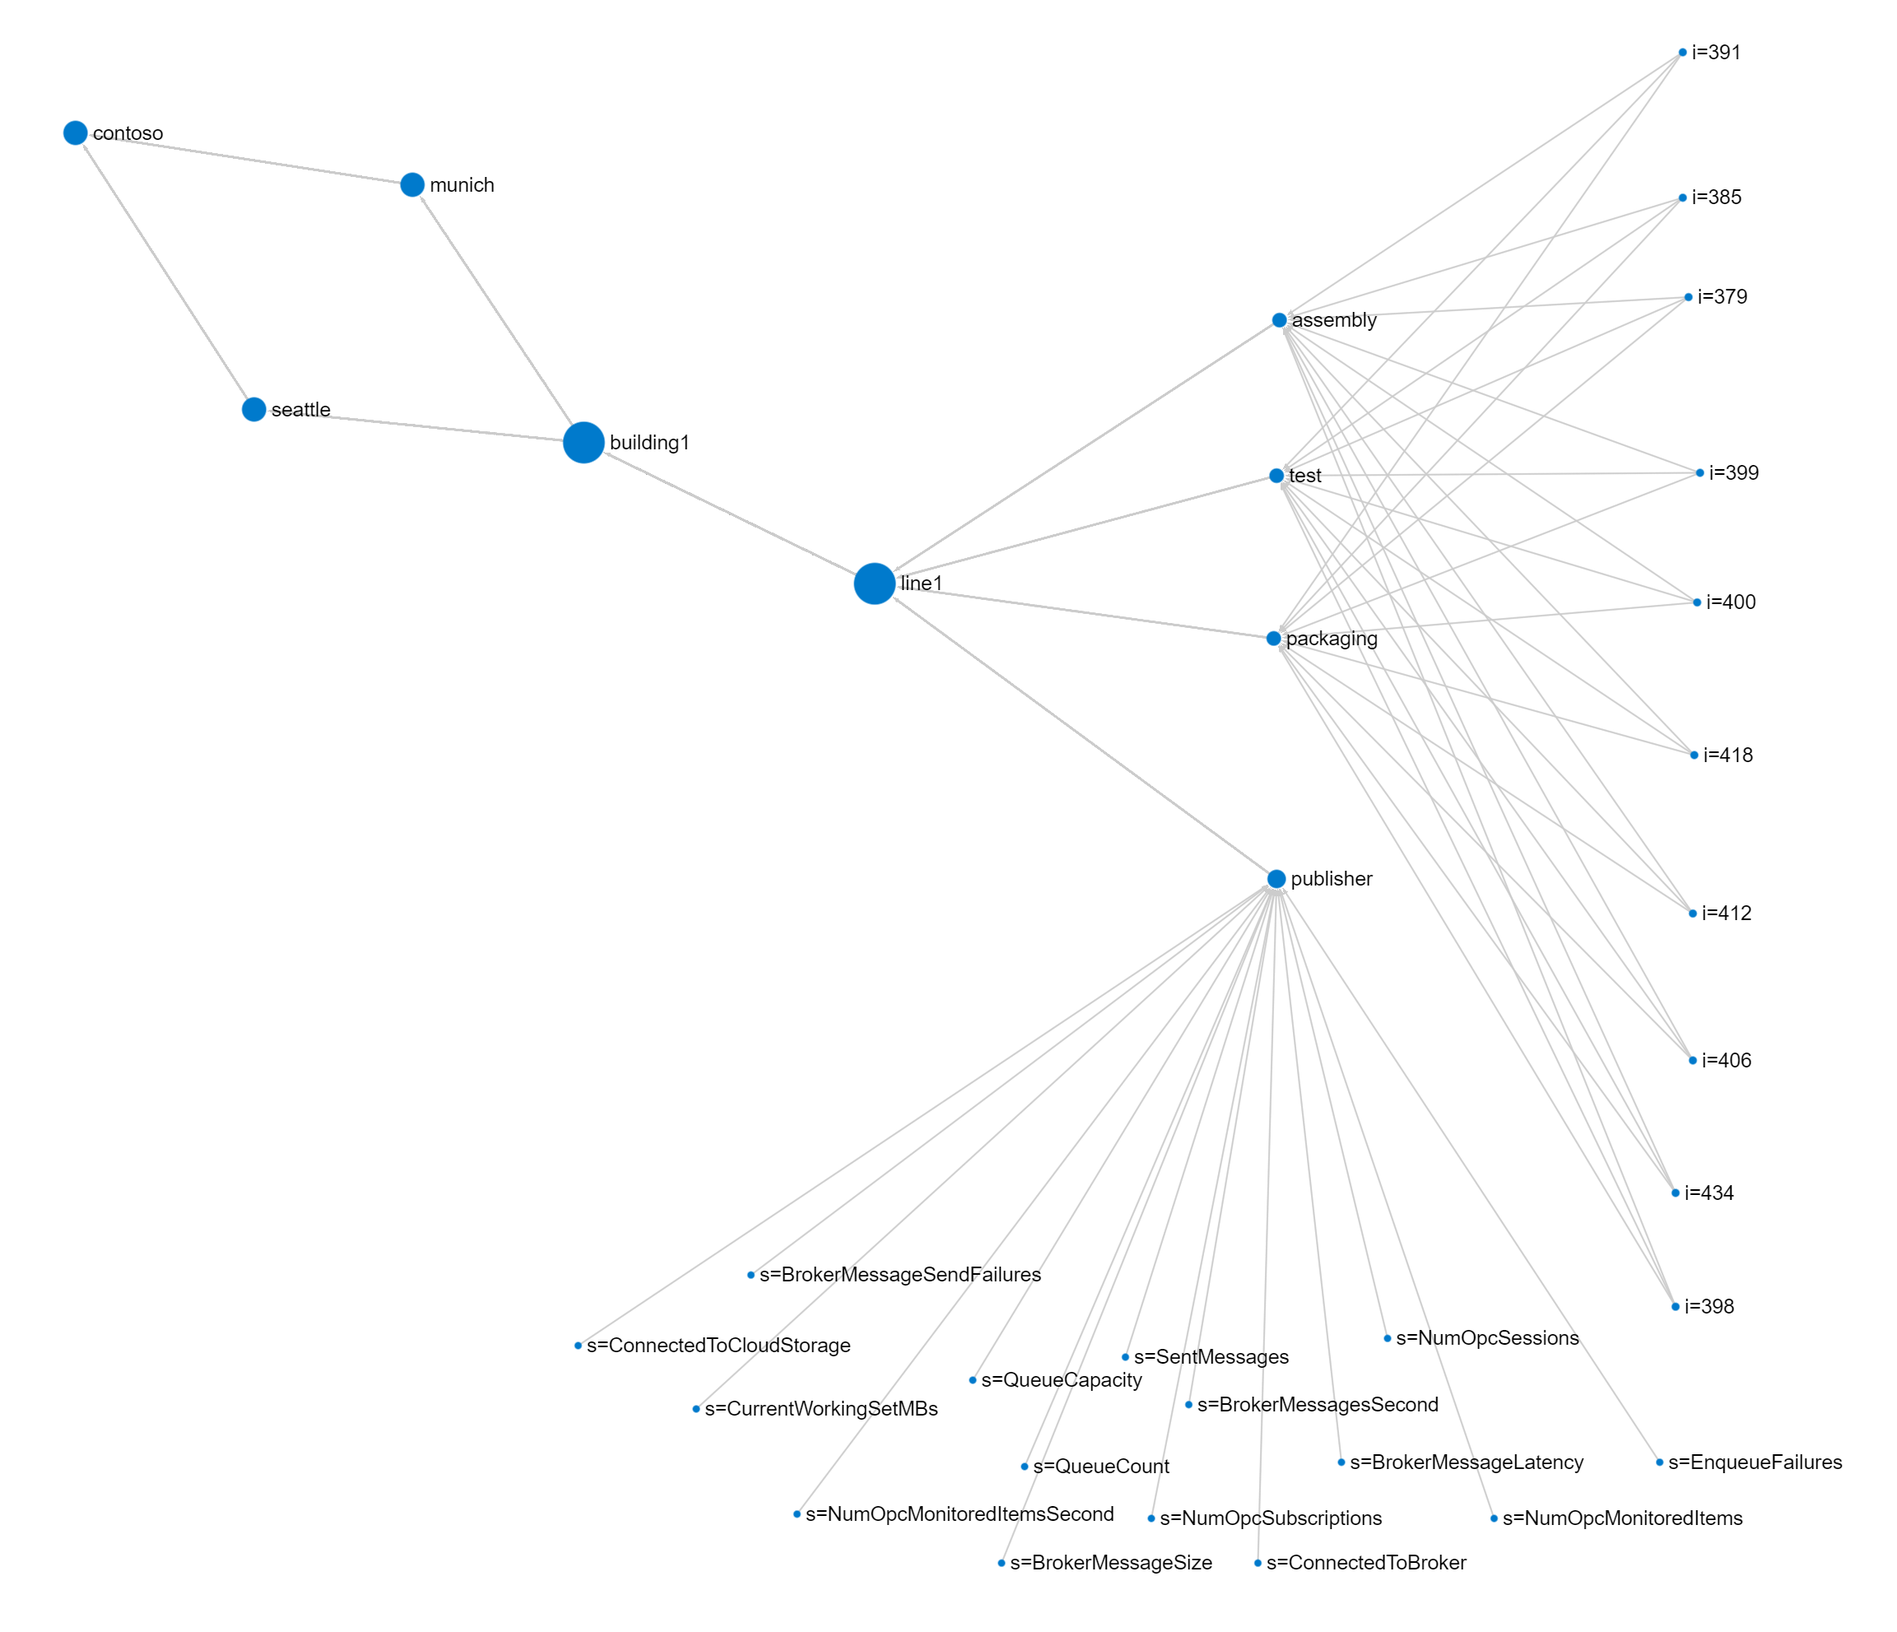
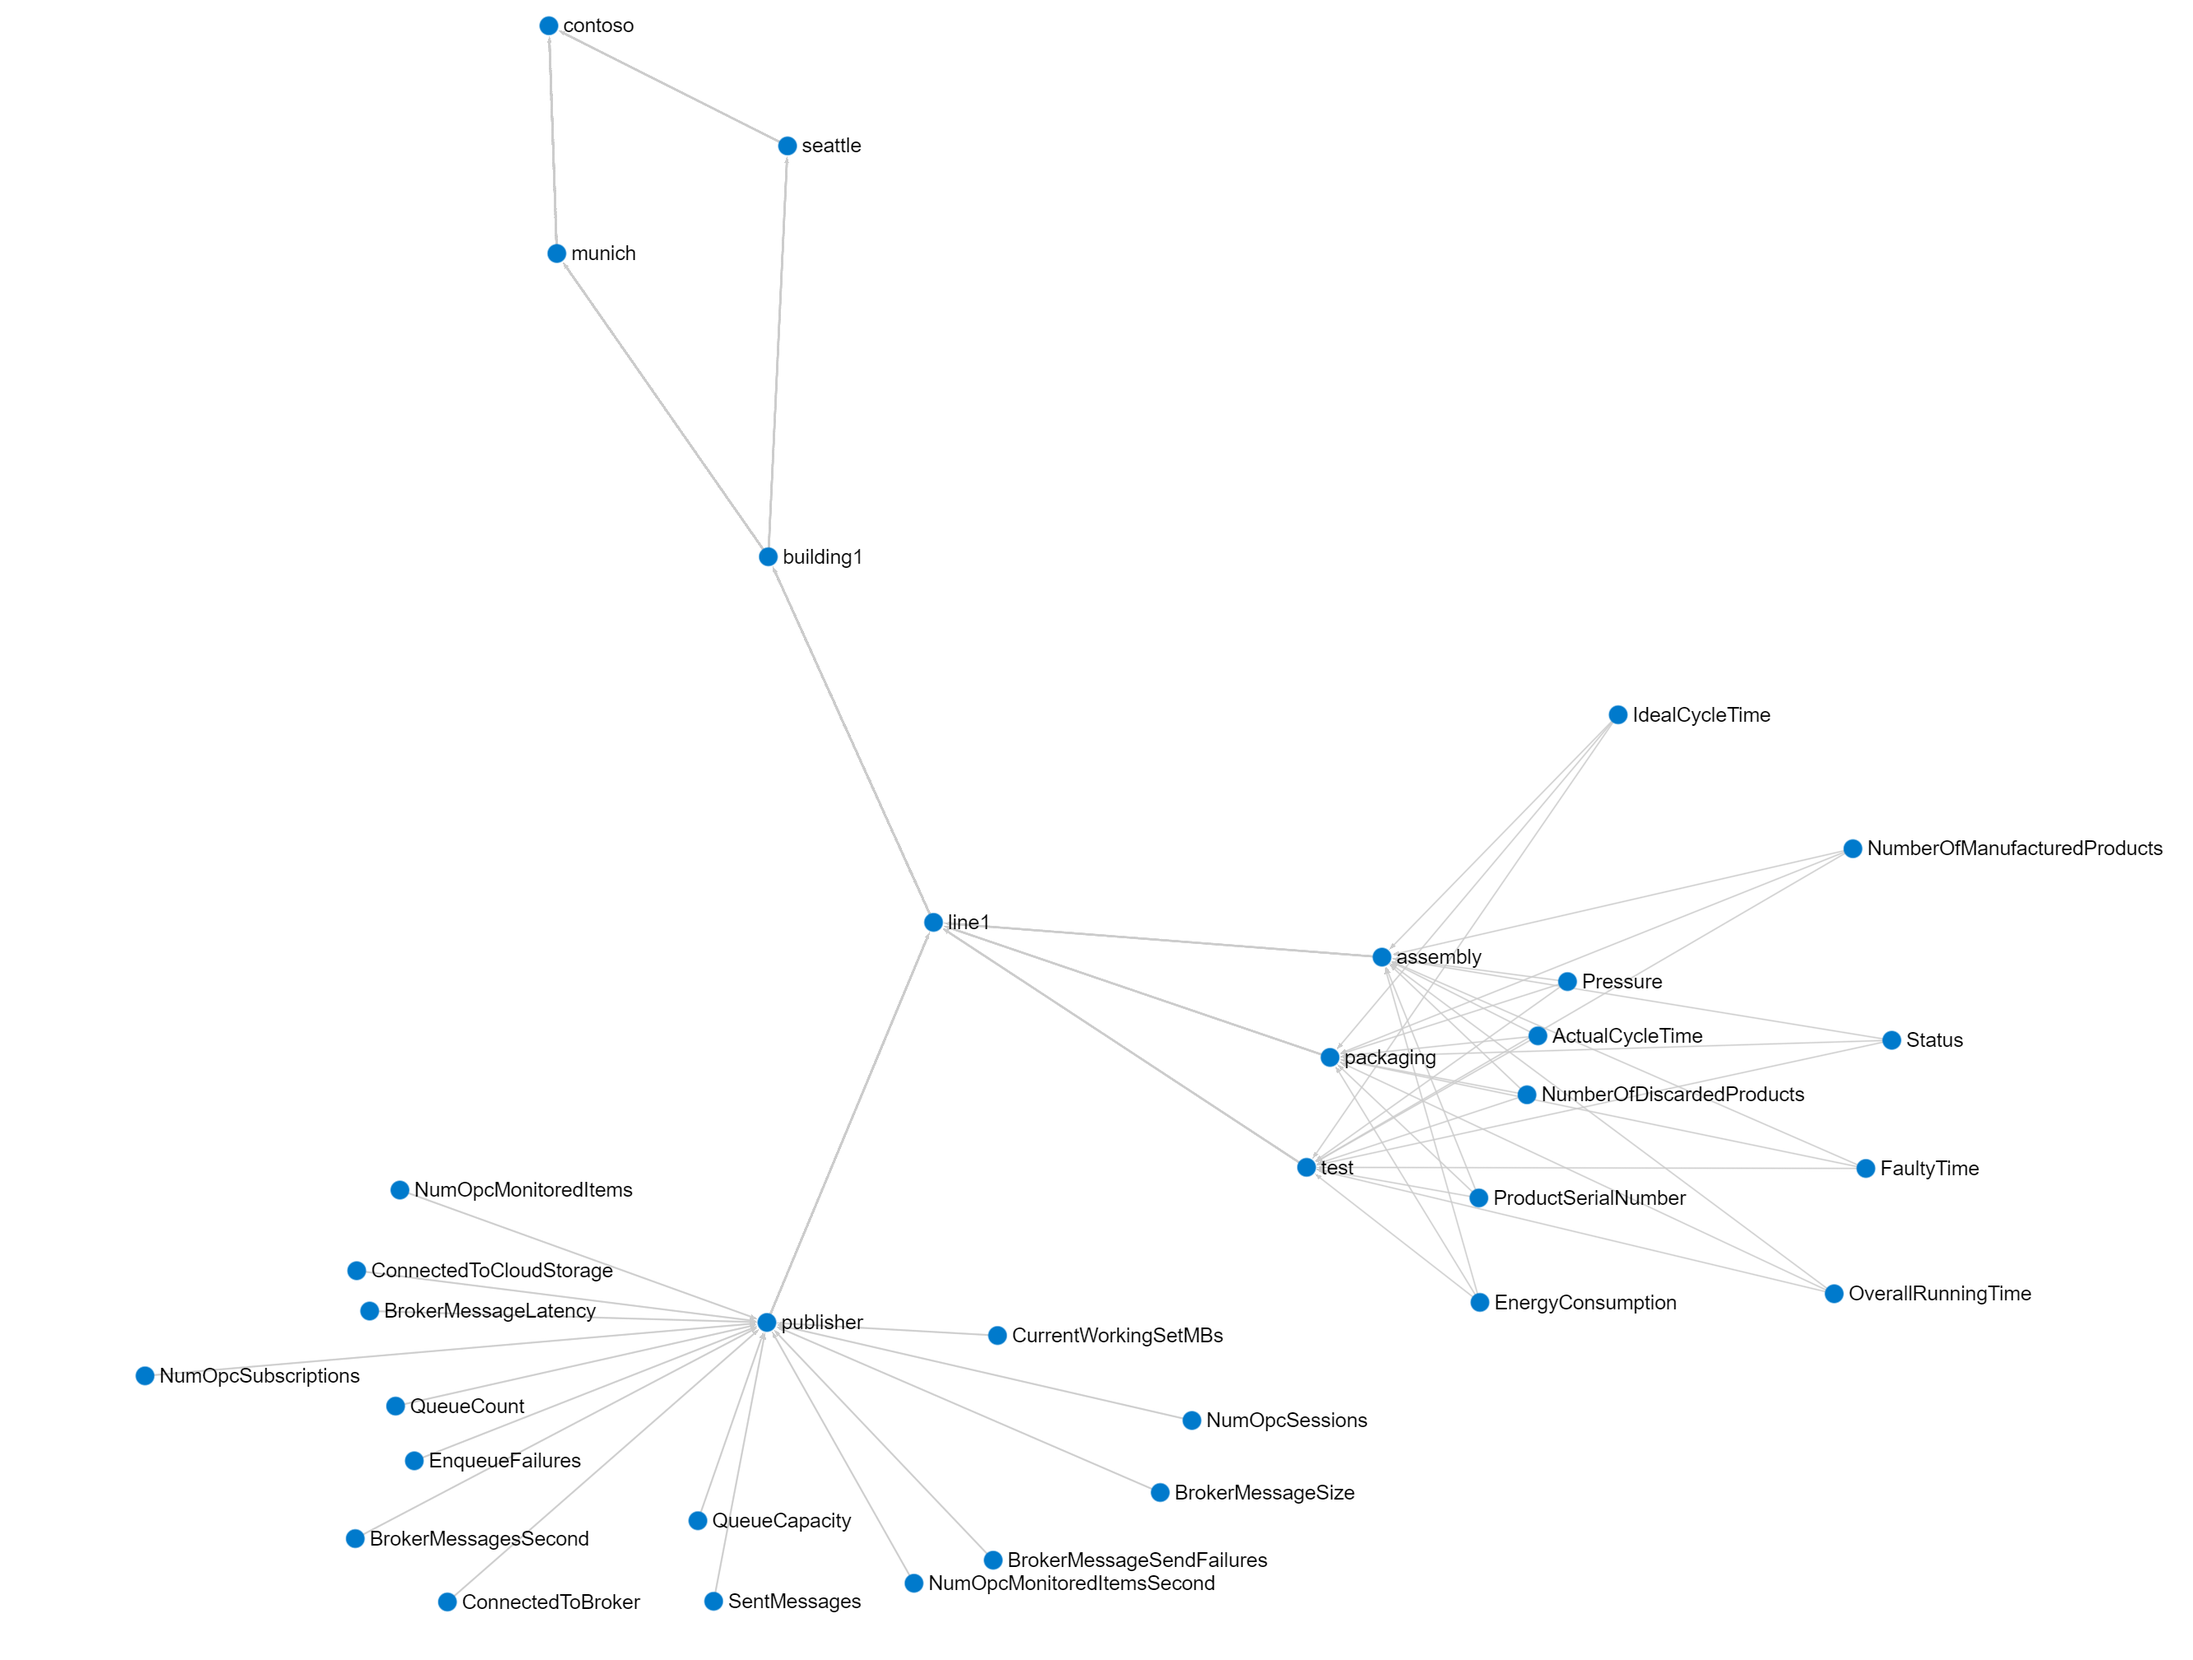
Added OPC UA display name to ADX graph.

diff --git a/README.md b/README.md
@@ -329,7 +329,7 @@ This reference solution implements a Unified NameSapce (UNS), based on the OPC U
 Add a new connection to your Azure Data Explorer instance deployed in this reference solution and then run the following query in Kusto Explorer:
 
     let edges = opcua_metadata_lkv
-    | project source = NodeId, target = Workcell
+    | project source = DisplayName, target = Workcell
     | join kind=fullouter (opcua_metadata_lkv
         | project source = Workcell, target = Line) on source
         | join kind=fullouter (opcua_metadata_lkv
@@ -340,7 +340,7 @@ Add a new connection to your Azure Data Explorer instance deployed in this refer
                     | project source = Site, target = Enterprise) on source
                     | project source = coalesce(source, source1, source2, source3, source4), target = coalesce(target, target1, target2, target3, target4);
     let nodes = opcua_metadata_lkv;
-    edges | make-graph source --> target with nodes on NodeId
+    edges | make-graph source --> target with nodes on DisplayName
 
 For best results, change the `Layout` option to `Grouped`.
 
